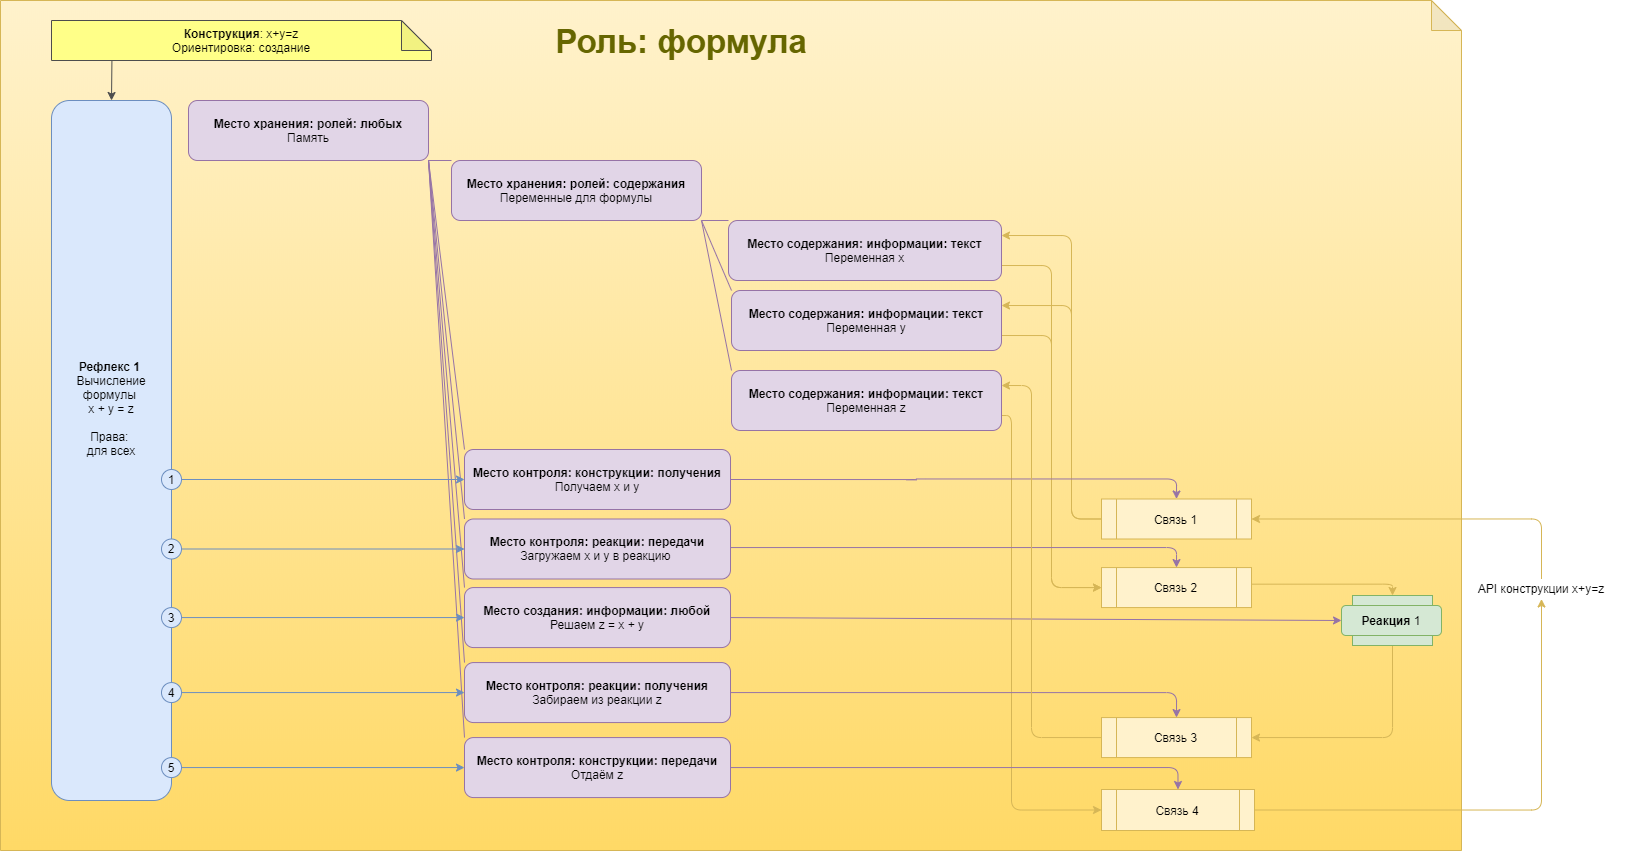
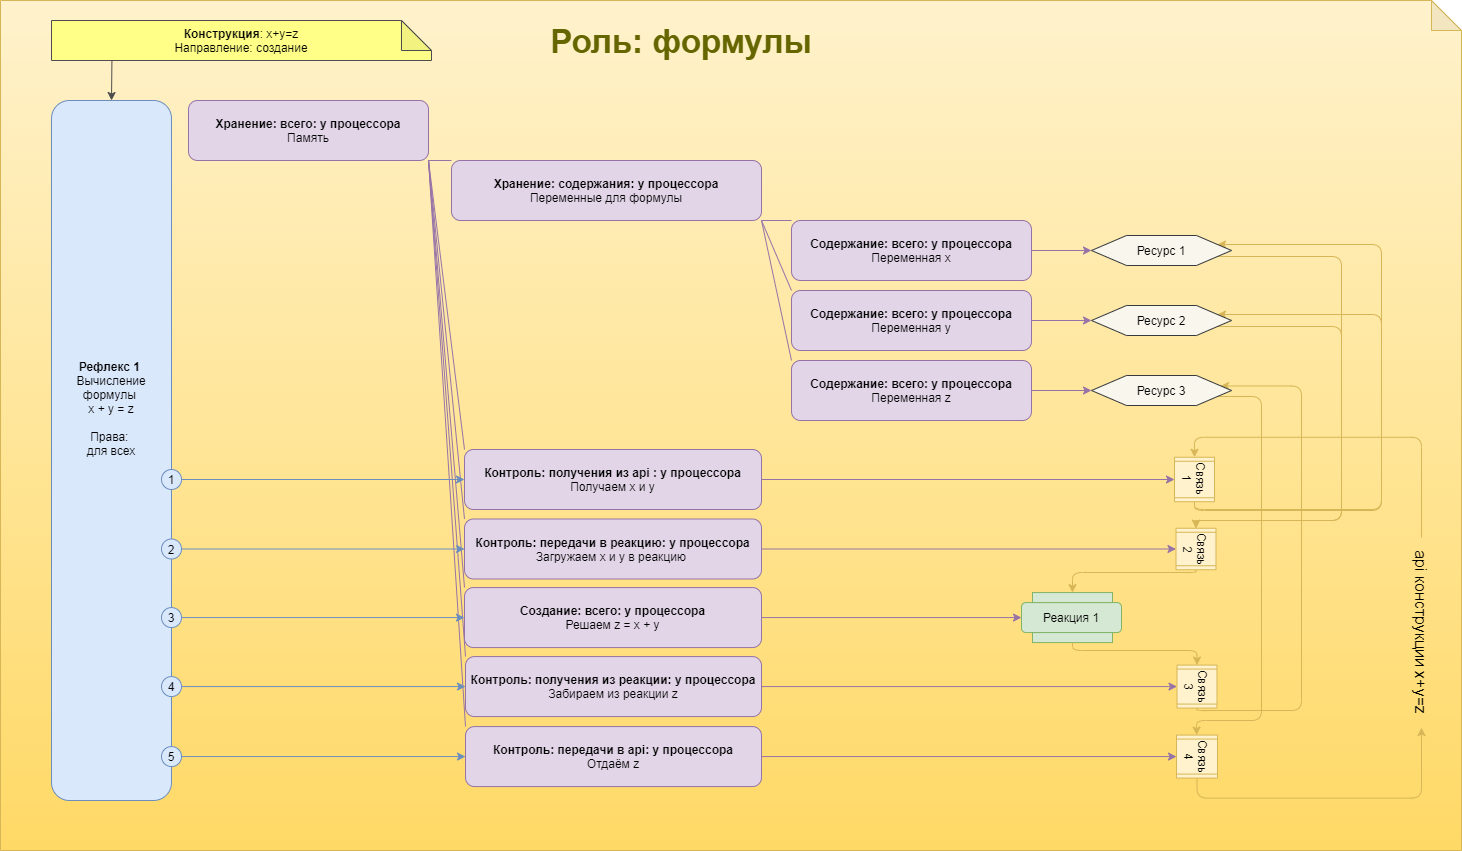
Роли

diff --git a/README.md b/README.md
@@ -32,9 +32,9 @@
 
     2.1. <a href="#Цикл">Цикл</a>
     
-    2.2. <a href="#Функционал">Функционал</a>
+    2.3. <a href="#Функционал">Функционал</a>
     
-    2.3. <a href="#Роли">Роли</a>
+    2.4. <a href="#Роли">Роли</a>
 
 > Практика:
 
@@ -238,9 +238,11 @@
 
 <h3>Роли</h3>
 
-Роль это реализованный CSDR код, который будет дополнять функционал процессора. Обозначаются роли: {названием проекта},  {ориентировкой конструкции} и {конструкцией проекта}.
+Роль необходима для расширения функционала процессора. Создаётся роль как и CSDR код, который нужно будет добавить в список ролей в массиве процессора. 
 
-Пример применения (<a target="_blank" href="https://github.com/it-architector/code.csdr/blob/master/%D0%9A%D0%B0%D1%80%D1%82%D0%B8%D0%BD%D0%BA%D0%B8/%D0%92%D0%B7%D0%B0%D0%B8%D0%BC%D0%BE%D0%B4%D0%B5%D0%B9%D1%81%D1%82%D0%B2%D0%B8%D0%B5%20%D1%8F%D0%B4%D1%80%D0%B0.png?raw=true">открыть в отдельном окне</a>):
+Для применении в коде обозначаются: {названием проекта},  {направлением конструкции} и {названачением конструкции}.
+
+Пример (<a target="_blank" href="https://github.com/it-architector/code.csdr/blob/master/%D0%9A%D0%B0%D1%80%D1%82%D0%B8%D0%BD%D0%BA%D0%B8/%D0%92%D0%B7%D0%B0%D0%B8%D0%BC%D0%BE%D0%B4%D0%B5%D0%B9%D1%81%D1%82%D0%B2%D0%B8%D0%B5%20%D1%8F%D0%B4%D1%80%D0%B0.png?raw=true">открыть в отдельном окне</a>):
 
 ![---------------------](./Картинки/Взаимодействие%20ядра.png)
 
